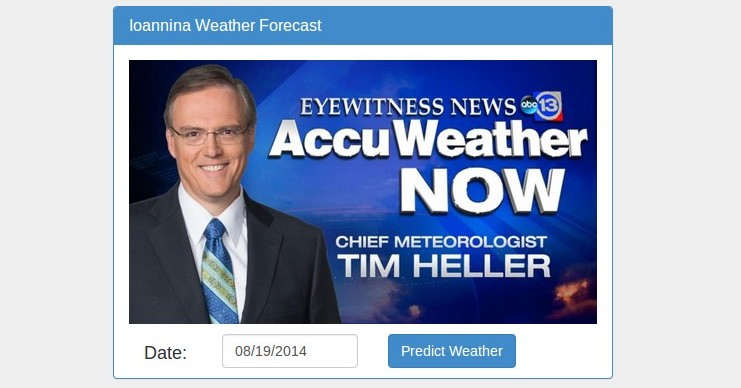
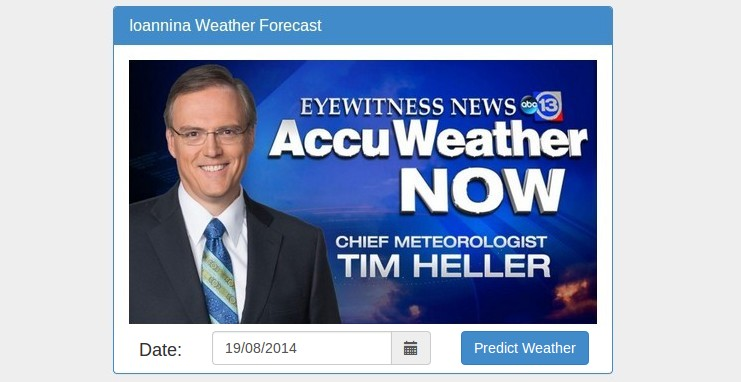
Updated kairos page.

diff --git a/kairos/index.html b/kairos/index.html
@@ -64,9 +64,9 @@
             <img src="img/banner.jpg" class="img-responsive " />
             <!-- Datepicker and forecast button -->
             <div class="form-group" style="margin: 0px; margin-top: 10px;">
-                <label class="col-lg-2"><h4>Date:</h4></label>
                 <div class="row">
-                    <div class="col-lg-4">
+                    <label class="col-xs-2 text-right"><h4>Date:</h4></label>
+                    <div class="col-xs-6">
                         <div class="form-group">
                             <div class='input-group date' id='datapicker'>
                                 <input id="datapicker" type="text" class="form-control input-md" placeholder="Date">
@@ -75,7 +75,7 @@
                             </div>
                         </div>
                     </div>
-                    <div class="col-lg-4">
+                    <div class="col-xs-4">
                         <a id="forecast" class="btn btn-primary">Predict Weather</a>
                     </div>
                 </div>
